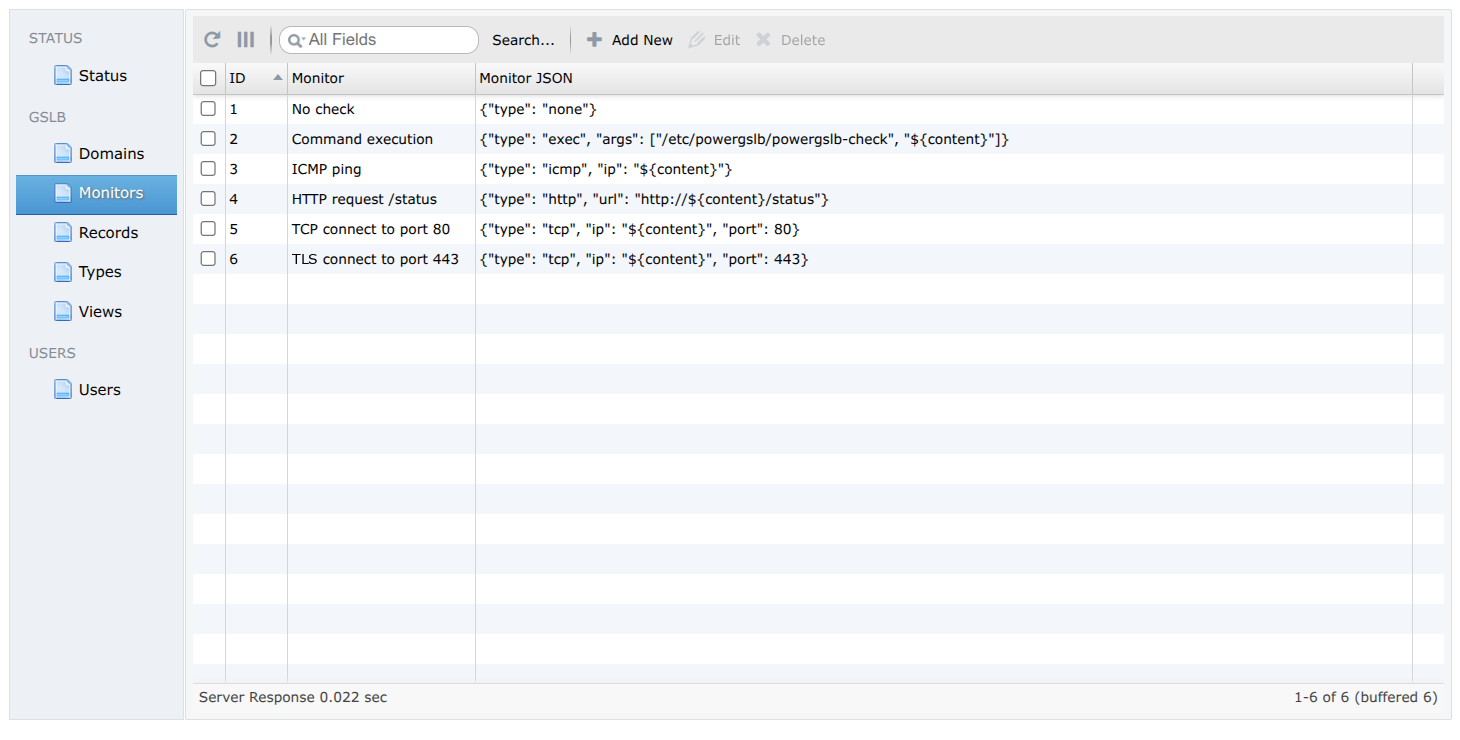
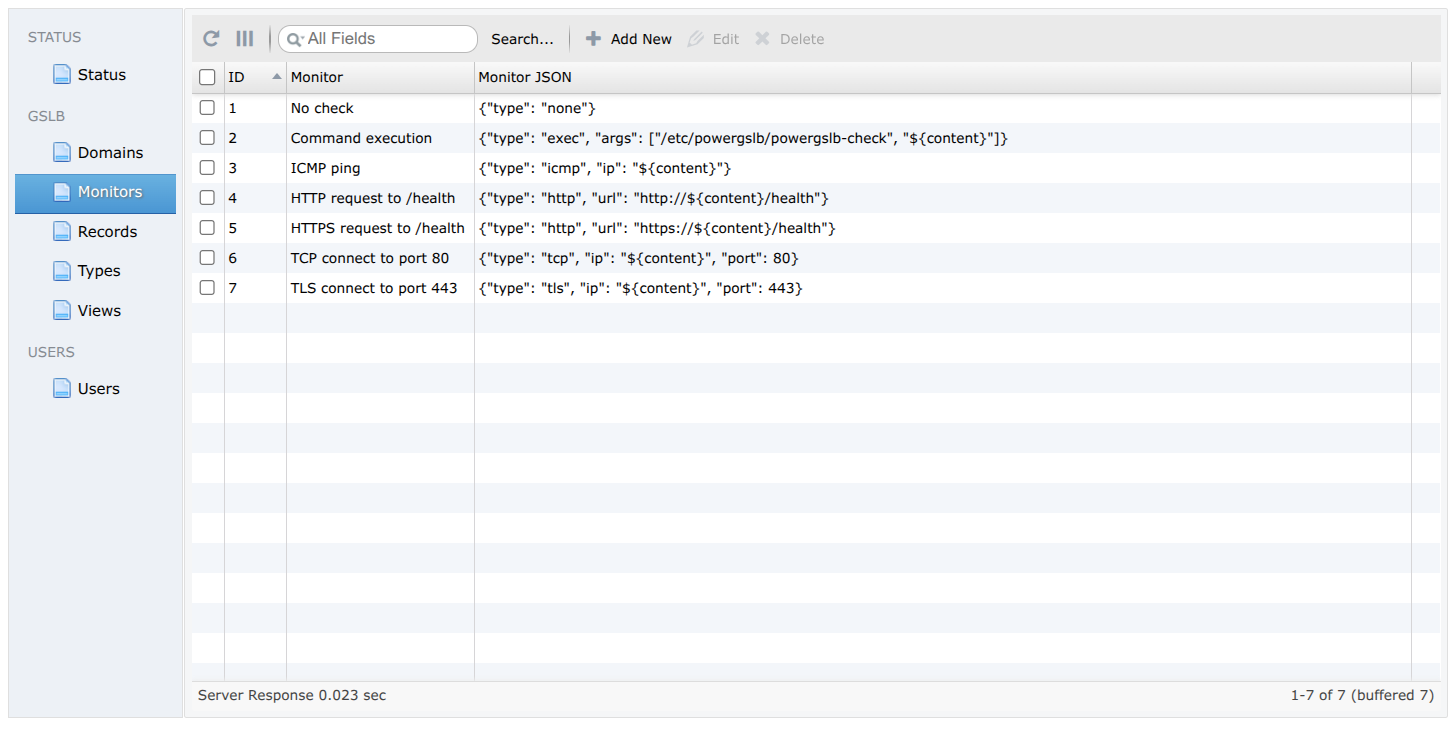
Add HTTPS health monitor and switch examples to /health

diff --git a/tests/integration/test_admin.py b/tests/integration/test_admin.py
@@ -58,7 +58,7 @@ def test_list_domains(w2ui: W2UIClient) -> None:
 def test_list_monitors(w2ui: W2UIClient) -> None:
     data = w2ui.request('get-records', 'monitors').json()
     assert data['status'] == 'success'
-    assert data['total'] == 6
+    assert data['total'] == 7
     assert all({'recid', 'monitor', 'monitor_json'}.issubset(r.keys()) for r in data['records'])
     assert 'No check' in {r['monitor'] for r in data['records']}
 

diff --git a/database/README.md b/database/README.md
@@ -3,8 +3,8 @@
 This directory holds the database definition for PowerGSLB:
 
 - `scheme.sql` - tables, constraints, the `rrset_guard` procedure, and the triggers that enforce DNS invariants.
-- `data.sql` - seed data: the default `admin` user, two views, the DNS type catalogue, six example monitors, and three
-  fully populated example zones.
+- `data.sql` - seed data: the default `admin` user, three views, the DNS type catalogue, seven example monitors, and
+  three fully populated example zones.
 
 The schema targets MySQL 8 / MariaDB 10.5+ (CHECK constraints and `SIGNAL` in triggers are required). In the
 all-in-one Docker image both files are loaded into MariaDB at build time.
@@ -207,7 +207,8 @@ The Python layer is two mixins on `MySQLDatabase` (`src/powergslb/database/mysql
   and `Europe` (`country:DE country:FR continent:EU`) as a GeoIP example.
 - **Types**: the common DNS types (A, NS, CNAME, SOA, PTR, MX, TXT, AAAA, SRV) keyed by their IANA numeric value.
 - **Monitors**: `No check` (id 1, the inert default every seed record uses; its JSON is `{"type": "none"}` - the
-  registered `none` check type that MonitorManager never threads) plus exec / icmp / http / tcp / tls examples.
+  registered `none` check type that MonitorManager never threads) plus one example per other check type - `exec`,
+  `icmp`, `http`, `tcp`, `tls` - with two `http` examples, one plain HTTP and one HTTPS.
   `${content}` in a monitor's JSON is replaced with the record content at check time, and the shared timing fields
   (`interval`/`timeout`/`fall`/`rise`) may be omitted to take their defaults (`3`/`1`/`3`/`5`).
 - **Zones**: `example.com`, `example.net`, `example.org`, each with SOA, NS + glue (A/AAAA), apex A/AAAA, `www`/`mobile`

diff --git a/README.md b/README.md
@@ -757,7 +757,7 @@ Redirects are never followed: a `3xx` is evaluated on its own status (accepted b
 Example:
 
 ```json
-{"type": "http", "url": "http://${content}/status"}
+{"type": "http", "url": "http://${content}/health"}
 ```
 
 Example with optional parameters - require an exact `200` carrying `"ok"` in the body, over self-signed HTTPS, and